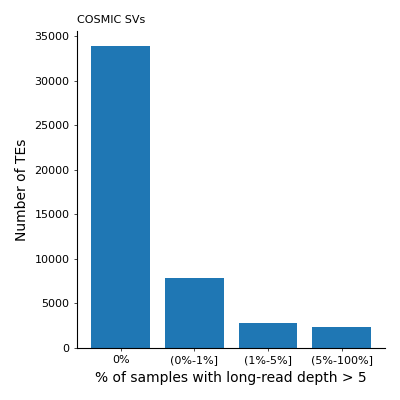
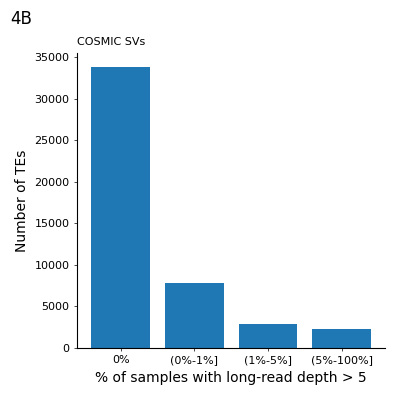
add fig 4

diff --git a/src/custom_hist.py b/src/custom_hist.py
@@ -45,6 +45,7 @@ def get_args():
                         type=int,
                         default=8,
                         help="Axis tick label font size")
+    parser.add_argument("--fignum", type=str, help="Figure number")
 
 
     return parser.parse_args()
@@ -81,7 +82,11 @@ def main():
                    width=args.tick_line_width,
                    length=args.tick_line_length)
 
-
+    if args.fignum:
+        ax.annotate(args.fignum,
+                    xy=(.025, .975), xycoords='figure fraction',
+                    horizontalalignment='left', verticalalignment='top',
+                    fontsize=12)
     fig.tight_layout()
     fig.savefig(args.out_file)
 

diff --git a/README.md b/README.md
@@ -25,6 +25,11 @@
 | | ![](https://img/stix_sr_hg002_vs_gnomad_pop_freq.png) |
 | ![](img/stix_lr_hg002_cmrg_vs_gnomad_pop_freq.png) | ![](img/stix_sr_hg002_cmrg_vs_gnomad_pop_freq.png) |
 
+## Fig 4
+
+| | |
+|-|-|
+| | ![](img/lr_cosmic_freq_fixed_bins_t_5.png)
 
 ## Figures
 